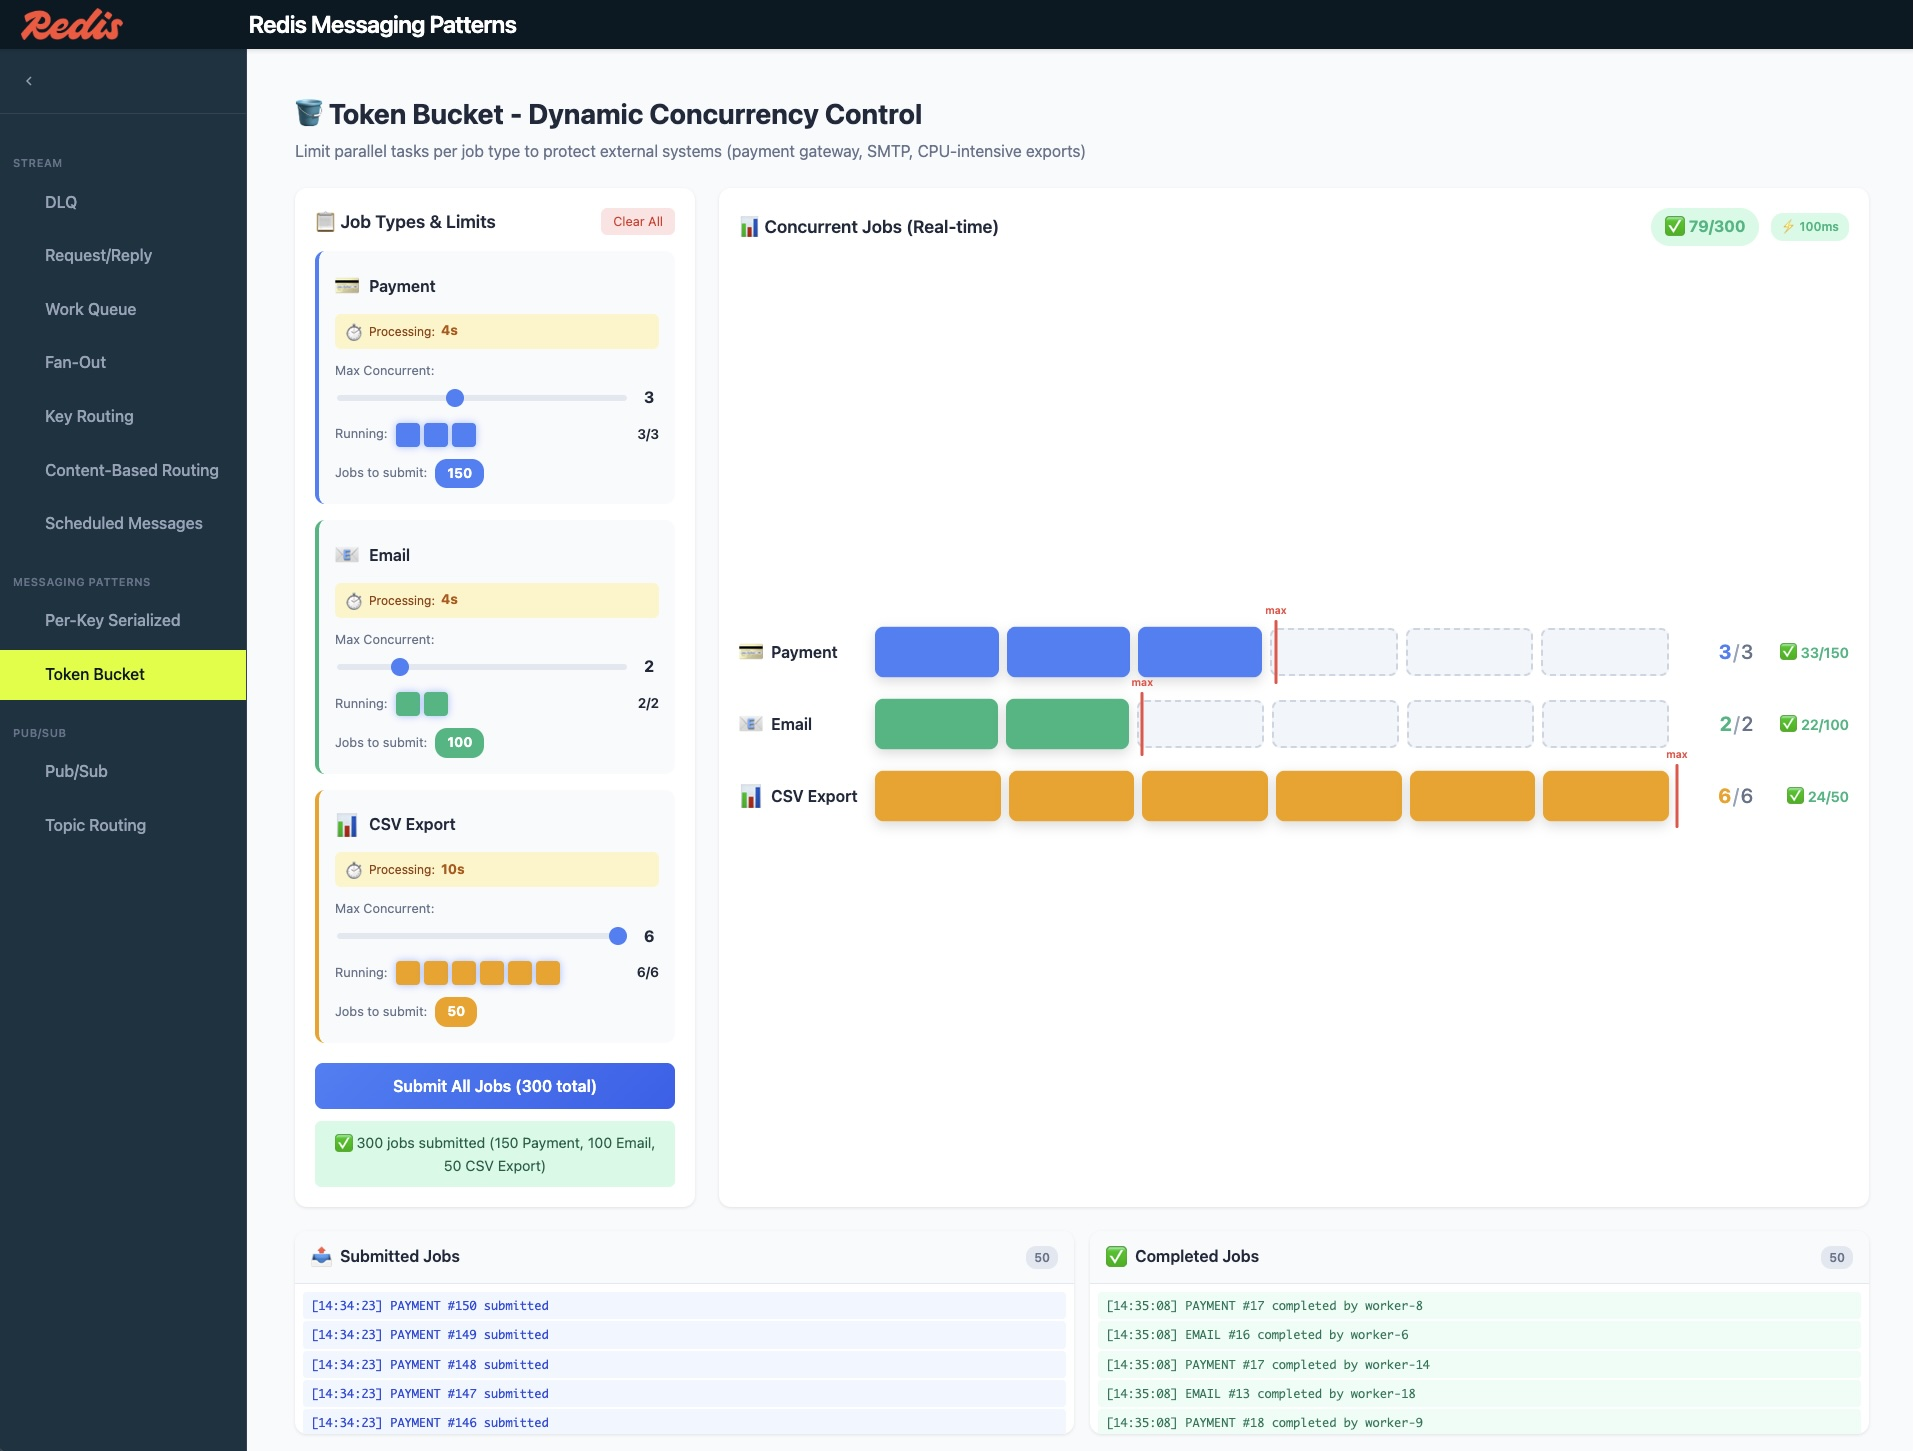
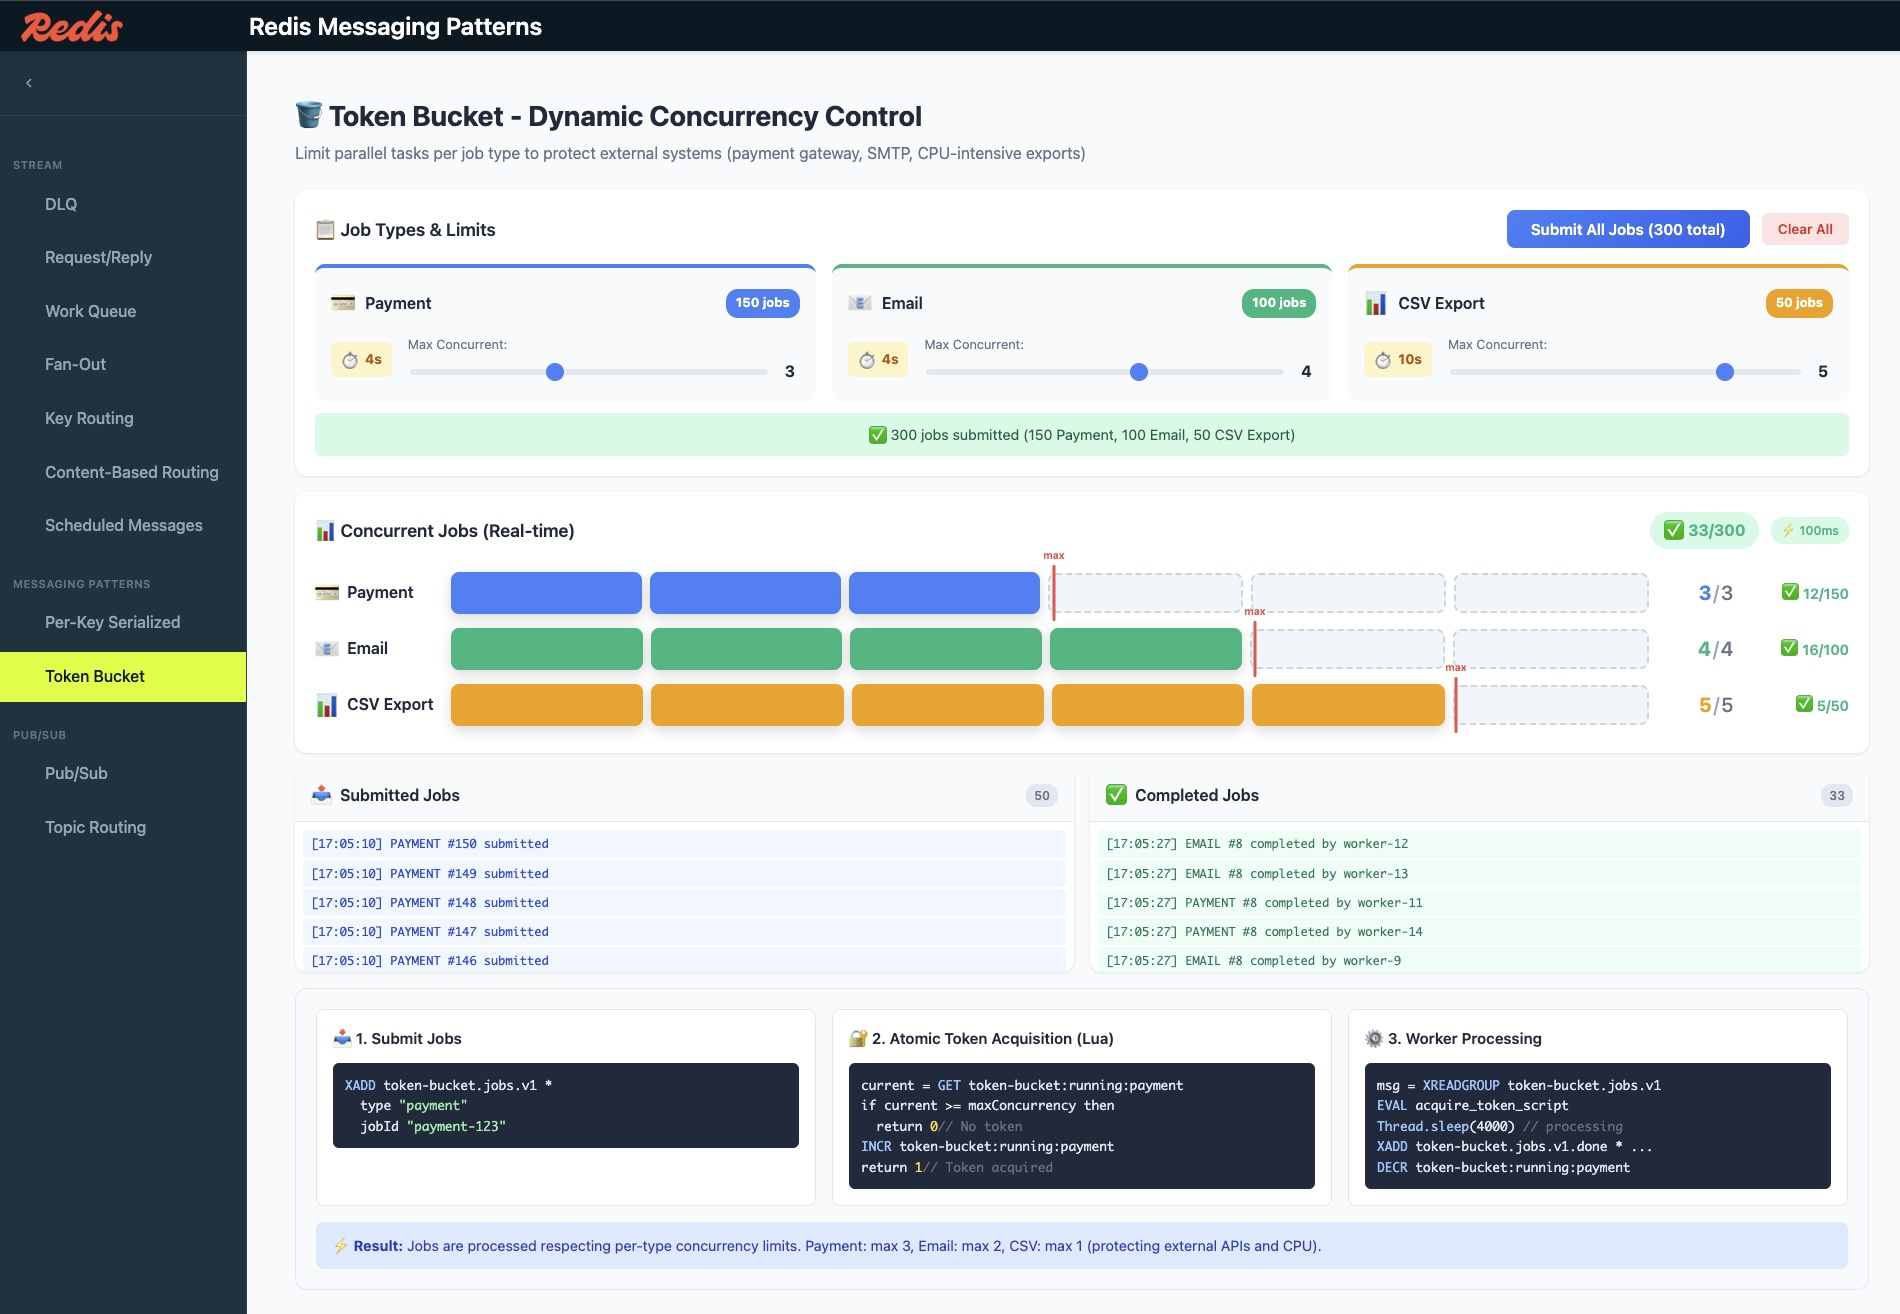
rearrange token bucket screen

diff --git a/frontend/src/app/components/token-bucket/token-bucket.component.html b/frontend/src/app/components/token-bucket/token-bucket.component.html
@@ -4,116 +4,98 @@
     <p class="subtitle">Limit parallel tasks per job type to protect external systems (payment gateway, SMTP, CPU-intensive exports)</p>
   </div>
 
-  <div class="main-content">
-    <!-- Left: Job Types Configuration -->
-    <div class="form-section">
-      <div class="panel jobs-panel">
-        <div class="panel-header">
-          <h3>📋 Job Types & Limits</h3>
-          <button class="clear-btn" (click)="clearAll()">Clear All</button>
-        </div>
-
-        <div class="job-types-list">
-          @for (jt of jobTypes(); track jt.name) {
-            <div class="job-type-card" [style.border-left-color]="jt.color">
-              <div class="job-type-header">
-                <span class="job-icon">{{ jt.icon }}</span>
-                <span class="job-label">{{ jt.label }}</span>
-              </div>
-
-              <div class="processing-time">
-                <span class="time-icon">⏱</span>
-                <span class="time-label">Processing:</span>
-                <span class="time-value">{{ jt.processingTime }}</span>
-              </div>
-
-              <div class="concurrency-control">
-                <label>Max Concurrent:</label>
-                <div class="slider-row">
-                  <input type="range" [min]="1" [max]="6" [value]="jt.maxConcurrency"
-                         (input)="updateMaxConcurrency(jt, +$any($event.target).value)">
-                  <span class="slider-value">{{ jt.maxConcurrency }}</span>
-                </div>
-              </div>
-
-              <div class="running-indicator">
-                <span class="running-label">Running:</span>
-                <div class="running-bar">
-                  @for (i of [].constructor(jt.maxConcurrency); track $index) {
-                    <div class="slot" [class.active]="$index < jt.running" [style.background-color]="$index < jt.running ? jt.color : ''"></div>
-                  }
-                </div>
-                <span class="running-count">{{ jt.running }}/{{ jt.maxConcurrency }}</span>
-              </div>
-
-              <div class="job-count">
-                <label>Jobs to submit:</label>
-                <span class="count-badge" [style.background-color]="jt.color">{{ jt.jobCount }}</span>
-              </div>
-            </div>
-          }
-        </div>
-
+  <!-- Row 1: Job Types Configuration -->
+  <div class="panel jobs-panel">
+    <div class="panel-header">
+      <h3>📋 Job Types & Limits</h3>
+      <div class="header-right">
         <button class="submit-btn" (click)="submitAllJobs()" [disabled]="isSubmitting()">
           {{ isSubmitting() ? 'Submitting...' : 'Submit All Jobs (300 total)' }}
         </button>
-
-        @if (submitMessage()) {
-          <div class="message" [class.success]="isSuccess()" [class.error]="!isSuccess()">
-            {{ submitMessage() }}
-          </div>
-        }
+        <button class="clear-btn" (click)="clearAll()">Clear All</button>
       </div>
     </div>
 
-    <!-- Right: Real-time Concurrency Chart -->
-    <div class="chart-section">
-      <div class="panel chart-panel">
-        <div class="panel-header">
-          <h3>📊 Concurrent Jobs (Real-time)</h3>
-          <div class="header-right">
-            <span class="total-completed">✅ {{ getTotalCompleted() }}/{{ getTotalJobs() }}</span>
-            <span class="refresh-badge">⚡ 100ms</span>
+    <div class="job-types-row">
+      @for (jt of jobTypes(); track jt.name) {
+        <div class="job-type-card" [style.border-top-color]="jt.color">
+          <div class="job-type-header">
+            <span class="job-icon">{{ jt.icon }}</span>
+            <span class="job-label">{{ jt.label }}</span>
+            <span class="count-badge" [style.background-color]="jt.color">{{ jt.jobCount }} jobs</span>
           </div>
-        </div>
 
-        <div class="chart-container">
-          @for (jt of jobTypes(); track jt.name) {
-            <div class="chart-row">
-              <div class="chart-label">
-                <span class="chart-icon">{{ jt.icon }}</span>
-                <span class="chart-type">{{ jt.label }}</span>
-              </div>
-              <div class="chart-bar-container">
-                <div class="chart-bar-bg">
-                  @for (i of [0,1,2,3,4,5]; track $index) {
-                    <div class="chart-slot"
-                         [class.active]="$index < getRunningCount(jt.name)"
-                         [class.over-limit]="$index >= jt.maxConcurrency"
-                         [style.background-color]="$index < getRunningCount(jt.name) ? jt.color : ''"></div>
-                  }
-                </div>
-                <div class="chart-limit-marker" [style.left.%]="(jt.maxConcurrency / 6) * 100">
-                  <span class="limit-label">max</span>
-                </div>
-              </div>
-              <div class="chart-value">
-                <span class="current" [style.color]="jt.color">{{ getRunningCount(jt.name) }}</span>
-                <span class="separator">/</span>
-                <span class="max">{{ jt.maxConcurrency }}</span>
-              </div>
-              <div class="chart-completed">
-                <span class="completed-icon">✅</span>
-                <span class="completed-count">{{ getCompletedCount(jt.name) }}/{{ jt.jobCount }}</span>
+          <div class="card-body">
+            <div class="processing-time">
+              <span class="time-icon">⏱</span>
+              <span class="time-value">{{ jt.processingTime }}</span>
+            </div>
+
+            <div class="concurrency-control">
+              <label>Max Concurrent:</label>
+              <div class="slider-row">
+                <input type="range" [min]="1" [max]="6" [value]="jt.maxConcurrency"
+                       (input)="updateMaxConcurrency(jt, +$any($event.target).value)">
+                <span class="slider-value">{{ jt.maxConcurrency }}</span>
               </div>
             </div>
-          }
+          </div>
         </div>
+      }
+    </div>
+
+    @if (submitMessage()) {
+      <div class="message" [class.success]="isSuccess()" [class.error]="!isSuccess()">
+        {{ submitMessage() }}
       </div>
+    }
+  </div>
+
+  <!-- Row 2: Real-time Concurrency Chart -->
+  <div class="panel chart-panel">
+    <div class="panel-header">
+      <h3>📊 Concurrent Jobs (Real-time)</h3>
+      <div class="header-right">
+        <span class="total-completed">✅ {{ getTotalCompleted() }}/{{ getTotalJobs() }}</span>
+        <span class="refresh-badge">⚡ 100ms</span>
+      </div>
+    </div>
+
+    <div class="chart-container">
+      @for (jt of jobTypes(); track jt.name) {
+        <div class="chart-row">
+          <div class="chart-label">
+            <span class="chart-icon">{{ jt.icon }}</span>
+            <span class="chart-type">{{ jt.label }}</span>
+          </div>
+          <div class="chart-bar-container">
+            <div class="chart-bar-bg">
+              @for (i of [0,1,2,3,4,5]; track $index) {
+                <div class="chart-slot"
+                     [class.active]="$index < getRunningCount(jt.name)"
+                     [class.over-limit]="$index >= jt.maxConcurrency"
+                     [style.background-color]="$index < getRunningCount(jt.name) ? jt.color : ''"></div>
+              }
+            </div>
+            <div class="chart-limit-marker" [style.left.%]="(jt.maxConcurrency / 6) * 100">
+              <span class="limit-label">max</span>
+            </div>
+          </div>
+          <div class="chart-value">
+            <span class="current" [style.color]="jt.color">{{ getRunningCount(jt.name) }}</span>
+            <span class="separator">/</span>
+            <span class="max">{{ jt.maxConcurrency }}</span>
+          </div>
+          <div class="chart-completed">
+            <span class="completed-icon">✅</span>
+            <span class="completed-count">{{ getCompletedCount(jt.name) }}/{{ jt.jobCount }}</span>
+          </div>
+        </div>
+      }
     </div>
   </div>
 
-  <!-- Logs Section -->
+  <!-- Row 3: Logs Section -->
   <div class="logs-section">
     <div class="log-panel submitted">
       <div class="log-header">

diff --git a/frontend/src/app/components/token-bucket/token-bucket.component.scss b/frontend/src/app/components/token-bucket/token-bucket.component.scss
@@ -1,11 +1,7 @@
-.token-bucket-container { padding: 24px; max-width: 1800px; margin: 0 auto; }
-.page-header { margin-bottom: 24px; }
+.token-bucket-container { padding: 24px; max-width: 1800px; margin: 0 auto; display: flex; flex-direction: column; gap: 16px; }
+.page-header { margin-bottom: 8px; }
 .page-header h1 { font-size: 1.75rem; font-weight: 700; color: #1e293b; margin: 0 0 8px 0; }
 .subtitle { color: #64748b; margin: 0; }
-
-.main-content { display: grid; grid-template-columns: 400px 1fr; gap: 24px; margin-bottom: 24px; }
-.form-section { display: flex; flex-direction: column; }
-.chart-section { display: flex; flex-direction: column; }
 
 .panel { background: white; border-radius: 12px; padding: 20px; box-shadow: 0 1px 3px rgba(0,0,0,0.1); }
 .panel-header { display: flex; justify-content: space-between; align-items: center; margin-bottom: 16px; }
@@ -13,41 +9,33 @@
 .panel-header .header-right { display: flex; align-items: center; gap: 12px; }
 .total-completed { font-size: 1rem; font-weight: 700; color: #10b981; background: #d1fae5; padding: 6px 14px; border-radius: 20px; }
 
-.clear-btn { padding: 6px 12px; font-size: 0.8rem; background: #fee2e2; color: #dc2626; border: none; border-radius: 6px; cursor: pointer; }
+.clear-btn { padding: 8px 16px; font-size: 0.85rem; background: #fee2e2; color: #dc2626; border: none; border-radius: 6px; cursor: pointer; font-weight: 600; }
 .clear-btn:hover { background: #fecaca; }
 .refresh-badge { font-size: 0.75rem; color: #10b981; background: #d1fae5; padding: 4px 10px; border-radius: 12px; font-weight: 600; }
 
-.job-types-list { display: flex; flex-direction: column; gap: 16px; margin-bottom: 20px; }
-.job-type-card { background: #f8fafc; border-radius: 10px; padding: 16px; border-left: 4px solid #64748b; }
+/* Row 1: Job Types - horizontal layout */
+.jobs-panel { }
+.job-types-row { display: grid; grid-template-columns: repeat(3, 1fr); gap: 16px; }
+.job-type-card { background: #f8fafc; border-radius: 10px; padding: 16px; border-top: 4px solid #64748b; }
 
-.job-type-header { display: flex; align-items: center; gap: 10px; margin-bottom: 8px; }
+.job-type-header { display: flex; align-items: center; gap: 10px; margin-bottom: 12px; }
 .job-icon { font-size: 1.5rem; }
 .job-label { font-weight: 600; color: #1e293b; flex: 1; }
+.count-badge { color: white; font-weight: 700; font-size: 0.8rem; padding: 4px 10px; border-radius: 12px; }
 
-.processing-time { display: flex; align-items: center; gap: 6px; margin-bottom: 12px; padding: 6px 10px; background: #fef3c7; border-radius: 6px; }
+.card-body { display: flex; align-items: center; gap: 16px; }
+.processing-time { display: flex; align-items: center; gap: 6px; padding: 6px 10px; background: #fef3c7; border-radius: 6px; }
 .time-icon { font-size: 0.9rem; }
-.time-label { font-size: 0.75rem; color: #92400e; }
 .time-value { font-size: 0.85rem; font-weight: 700; color: #b45309; }
 
-.concurrency-control { margin-bottom: 12px; }
+.concurrency-control { flex: 1; }
 .concurrency-control label { font-size: 0.8rem; color: #64748b; display: block; margin-bottom: 4px; }
 .slider-row { display: flex; align-items: center; gap: 10px; }
 .slider-row input[type="range"] { flex: 1; height: 6px; -webkit-appearance: none; background: #e2e8f0; border-radius: 3px; }
 .slider-row input[type="range"]::-webkit-slider-thumb { -webkit-appearance: none; width: 18px; height: 18px; background: #3b82f6; border-radius: 50%; cursor: pointer; }
 .slider-value { font-weight: 700; color: #1e293b; min-width: 20px; text-align: center; }
 
-.running-indicator { display: flex; align-items: center; gap: 8px; margin-bottom: 12px; }
-.running-label { font-size: 0.8rem; color: #64748b; }
-.running-bar { display: flex; gap: 4px; flex: 1; }
-.slot { width: 24px; height: 24px; border-radius: 4px; background: #e2e8f0; transition: background-color 0.3s; }
-.slot.active { box-shadow: 0 0 8px rgba(59, 130, 246, 0.5); }
-.running-count { font-size: 0.85rem; font-weight: 600; color: #1e293b; min-width: 40px; text-align: right; }
-
-.job-count { display: flex; align-items: center; gap: 8px; }
-.job-count label { font-size: 0.8rem; color: #64748b; }
-.count-badge { color: white; font-weight: 700; font-size: 0.85rem; padding: 4px 12px; border-radius: 12px; }
-
-.submit-btn { width: 100%; padding: 14px; font-size: 1rem; font-weight: 600; background: linear-gradient(135deg, #3b82f6, #2563eb); color: white; border: none; border-radius: 8px; cursor: pointer; transition: all 0.2s; }
+.submit-btn { padding: 10px 24px; font-size: 0.95rem; font-weight: 600; background: linear-gradient(135deg, #3b82f6, #2563eb); color: white; border: none; border-radius: 8px; cursor: pointer; transition: all 0.2s; }
 .submit-btn:hover:not(:disabled) { transform: translateY(-1px); box-shadow: 0 4px 12px rgba(59, 130, 246, 0.4); }
 .submit-btn:disabled { opacity: 0.6; cursor: not-allowed; }
 
@@ -55,14 +43,14 @@
 .message.success { background: #d1fae5; color: #065f46; }
 .message.error { background: #fee2e2; color: #991b1b; }
 
-/* Chart Section */
-.chart-panel { height: 100%; display: flex; flex-direction: column; }
-.chart-container { flex: 1; display: flex; flex-direction: column; justify-content: center; gap: 24px; padding: 20px 0; }
+/* Row 2: Chart Section */
+.chart-panel { display: flex; flex-direction: column; }
+.chart-container { display: flex; flex-direction: column; gap: 16px; padding: 8px 0; }
 .chart-row { display: flex; align-items: center; gap: 16px; }
 .chart-label { display: flex; align-items: center; gap: 8px; min-width: 120px; }
 .chart-icon { font-size: 1.5rem; }
 .chart-type { font-weight: 600; color: #1e293b; }
-.chart-bar-container { flex: 1; position: relative; height: 48px; }
+.chart-bar-container { flex: 1; position: relative; height: 40px; }
 .chart-bar-bg { display: flex; gap: 8px; height: 100%; align-items: center; padding-right: 8px; }
 .chart-slot { flex: 1; height: 100%; border-radius: 8px; background: #e2e8f0; transition: background-color 0.1s, transform 0.1s; }
 .chart-slot.active { transform: scaleY(1.05); box-shadow: 0 4px 12px rgba(0,0,0,0.15); }
@@ -73,12 +61,12 @@
 .chart-value .current { font-weight: 700; }
 .chart-value .separator { color: #94a3b8; margin: 0 2px; }
 .chart-value .max { color: #64748b; font-weight: 500; }
-.chart-completed { min-width: 80px; text-align: right; font-size: 0.9rem; color: #10b981; display: flex; align-items: center; justify-content: flex-end; gap: 4px; }
+.chart-completed { min-width: 100px; text-align: right; font-size: 0.9rem; color: #10b981; display: flex; align-items: center; justify-content: flex-end; gap: 4px; }
 .chart-completed .completed-icon { font-size: 0.85rem; }
 .chart-completed .completed-count { font-weight: 600; }
 
-/* Logs Section */
-.logs-section { display: grid; grid-template-columns: 1fr 1fr; gap: 16px; margin-bottom: 24px; }
+/* Row 3: Logs Section */
+.logs-section { display: grid; grid-template-columns: 1fr 1fr; gap: 16px; }
 .log-panel { background: white; border-radius: 12px; box-shadow: 0 1px 3px rgba(0,0,0,0.1); overflow: hidden; }
 .log-header { display: flex; align-items: center; gap: 8px; padding: 12px 16px; background: #f8fafc; border-bottom: 1px solid #e2e8f0; }
 .log-icon { font-size: 1.1rem; }
@@ -104,7 +92,7 @@
 .explanation-note { background: #dbeafe; padding: 12px 16px; border-radius: 8px; color: #1e40af; font-size: 0.9rem; }
 
 @media (max-width: 1200px) {
-  .main-content { grid-template-columns: 1fr; }
+  .job-types-row { grid-template-columns: 1fr; }
   .logs-section { grid-template-columns: 1fr; }
   .explanation-blocks { grid-template-columns: 1fr; }
 }
